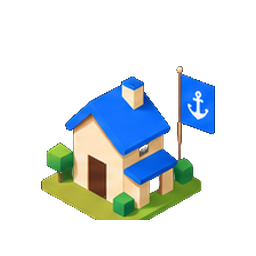
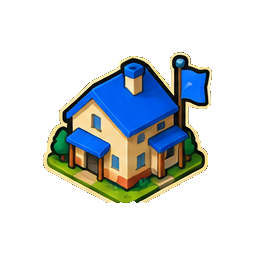
feat: integrate double-outline building assets

diff --git a/src/config/buildingAssets.test.ts b/src/config/buildingAssets.test.ts
@@ -24,10 +24,10 @@ describe('company building artwork',()=>{
       let left=256,top=256,right=0,bottom=0;
       for(let y=0;y<info.height;y++)for(let x=0;x<info.width;x++)if(data[(y*info.width+x)*4+3]>8){left=Math.min(left,x);top=Math.min(top,y);right=Math.max(right,x);bottom=Math.max(bottom,y)}
       // Actual opaque subject bounds, not merely a CSS frame size.
-      expect({left,top,right,bottom}).toEqual({left:41,top:66,right:214,bottom:219});
+      expect(right-left).toBeGreaterThan(100);expect(bottom-top).toBeGreaterThan(100);
       expect(asset.frameHeight).toBe(48);
       expect(asset.frameWidth).toBe(48);
-      expect({x:asset.x,y:asset.y,width:asset.width,height:asset.height}).toEqual({x:40,y:65,width:176,height:156});
+      expect({x:asset.x,y:asset.y,width:asset.width,height:asset.height}).toEqual({x:left-1,y:top-1,width:right-left+3,height:bottom-top+3});
       expect(asset.x).toBeGreaterThanOrEqual(0);expect(asset.y).toBeGreaterThanOrEqual(0);
       expect(asset.x+asset.width).toBeLessThanOrEqual(256);expect(asset.y+asset.height).toBeLessThanOrEqual(256);
     }

diff --git a/scripts/DOUBLE_OUTLINE_REPORT.md b/scripts/DOUBLE_OUTLINE_REPORT.md
@@ -1,0 +1,39 @@
+# Double-outline building artwork integration
+
+## Selected assets
+
+Used all 20 individual PNGs from `asset/hous/256px/`, rather than the old unoutlined set, the ZIP or a full sprite sheet. The supplied README identifies this as the double-outline collection. Each image was visually inspected in a contact sheet: blue-black outer edge, cream-gold inner edge, transparency, four company colors and all five stages. The 256px originals preserve edge quality on high-DPI displays.
+
+Copied PNGs byte-for-byte to the existing company-prefixed paths in `public/assets/game/buildings/`. Originals were not modified, moved or deleted. No recoloring, hue-rotate, generated image, CSS border substitute or raster stretching was used.
+
+The existing company/stage URL mapping remains correct: Iron Works/red, Timber Guild/green, Golden Trade/yellow, Ocean Empire/blue. Updated per-image alpha-content bounds with 1px padding, including the supplied double outline. The renderer continues to proportionally contain each cutout in the common 48×48 frame and center its actual content at the existing vertex. No vertex, renderer coordinate system, zoom/pan or construction action changed.
+
+## Checks
+
+- `npm run typecheck`: PASS (frontend/backend).
+- `npm test`: **260 passed / 9 skipped**, 20 files passed / 2 skipped. The skipped tests require PostgreSQL; no Neon connection was made.
+- `npm run build`: PASS.
+- `npm run server:build`: PASS.
+- All 20 PNGs decode and retain transparency. Source/public/dist/HTTP bytes match for every file. All 20 Vite asset URLs return HTTP 200, `image/png`.
+- Updated the asset regression to validate each actual PNG's alpha bounds instead of the previous set's fixed dimensions. Existing renderer tests verify the visible content center for all 20 combinations.
+- Browser gallery uses the actual BuildingIcon component over Metal, Wood, Wheat and Cotton tile backgrounds. All 20 frames measure 48×48px and have local SVG x/y = -24/-24. Company colors, levels and visible double edges checked at real 48px size.
+- Actual map screenshot includes four companies, all five stages, interior and boundary vertices. All eight representative building frames are 48×48 and centered. Dice labels remain above artwork.
+- Zoom in, wheel zoom out, pan and camera reset checked. Upgrading the owned settlement changes its company PNG to level 2 at the same vertex `(-45.89934640057525, -26.5)`, still 48×48 with local offsets -24/-24.
+- Nearby free vertex remains selectable and opens the unchanged construction popover.
+- QA backend uses only in-memory fixtures. No game rule, extraction, construction recipe, manufacturing capacity, auction, economy, multiplayer, database or schema changes. No manual deployment or force push.
+
+## Local screenshots
+
+- `.render-verification/buildings-double-outline-map.png`
+- `.render-verification/buildings-double-outline-zoom.png`
+- `.render-verification/buildings-double-outline-gallery.png`
+- `.render-verification/double-outline-contact.png`
+
+## Changed files (23)
+
+- 20 PNGs in `public/assets/game/buildings/`: each company prefix (`iron_works`, `timber_guild`, `golden_trade`, `ocean_empire`) × each stage (`settlement_level_1`, `settlement_level_2`, `factory_level_1`, `factory_level_2`, `factory_level_3`).
+- `src/config/buildingAssetBounds.json`.
+- `src/config/buildingAssets.test.ts`.
+- This report.
+
+Existing local changes in the source asset folder are excluded from this commit.
